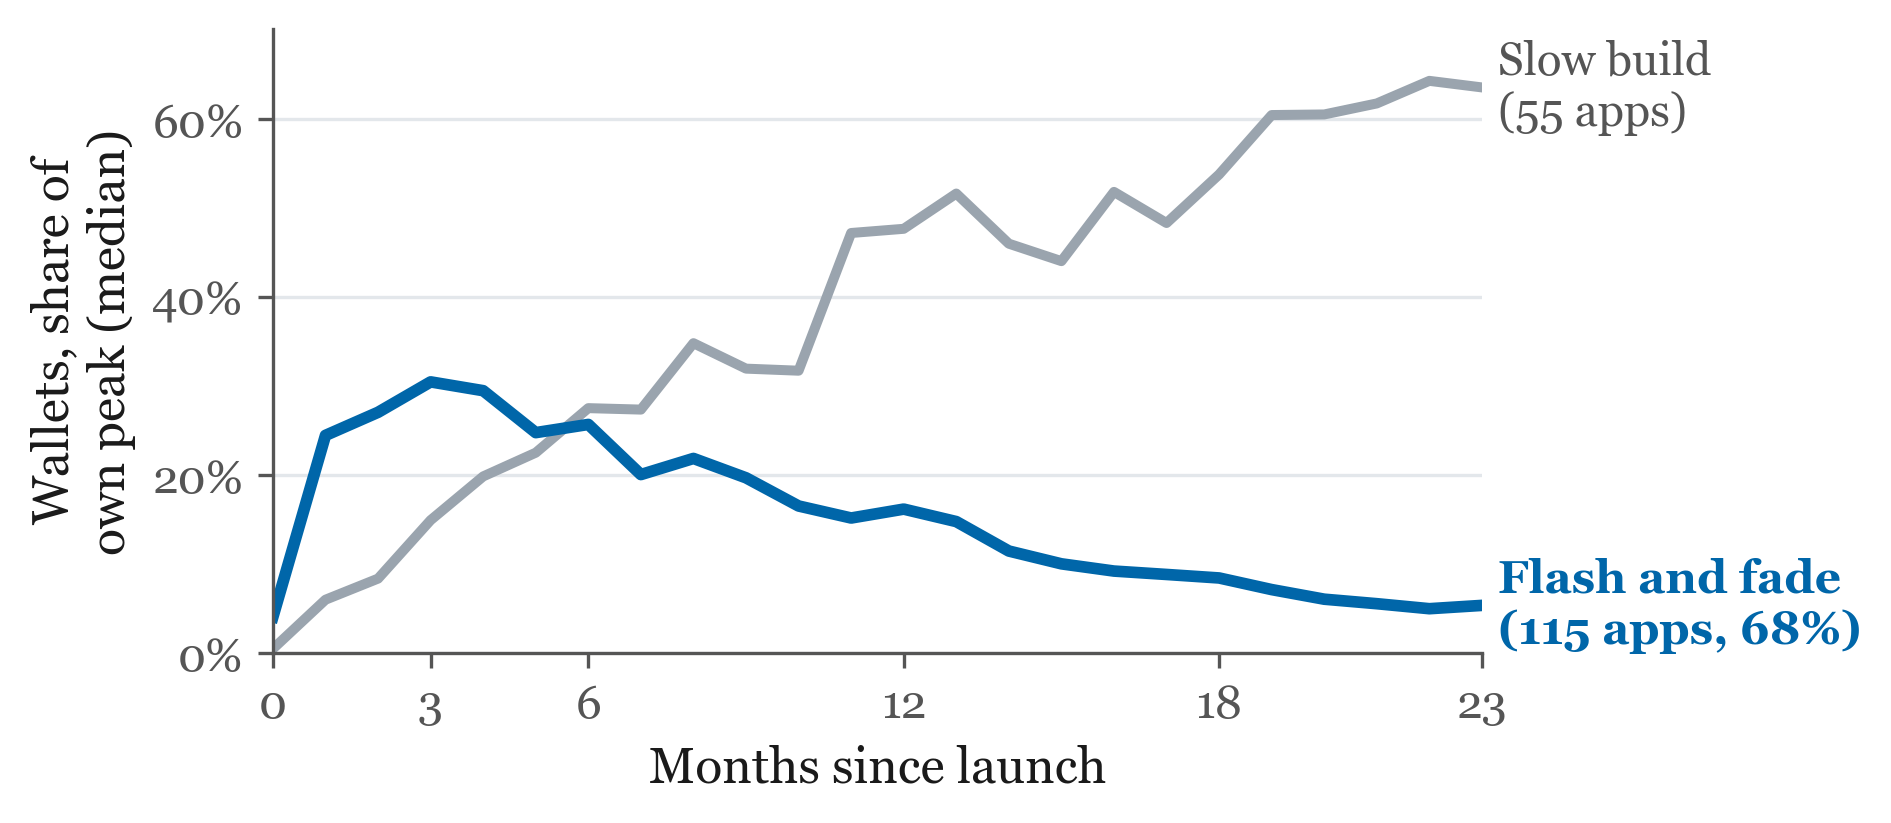
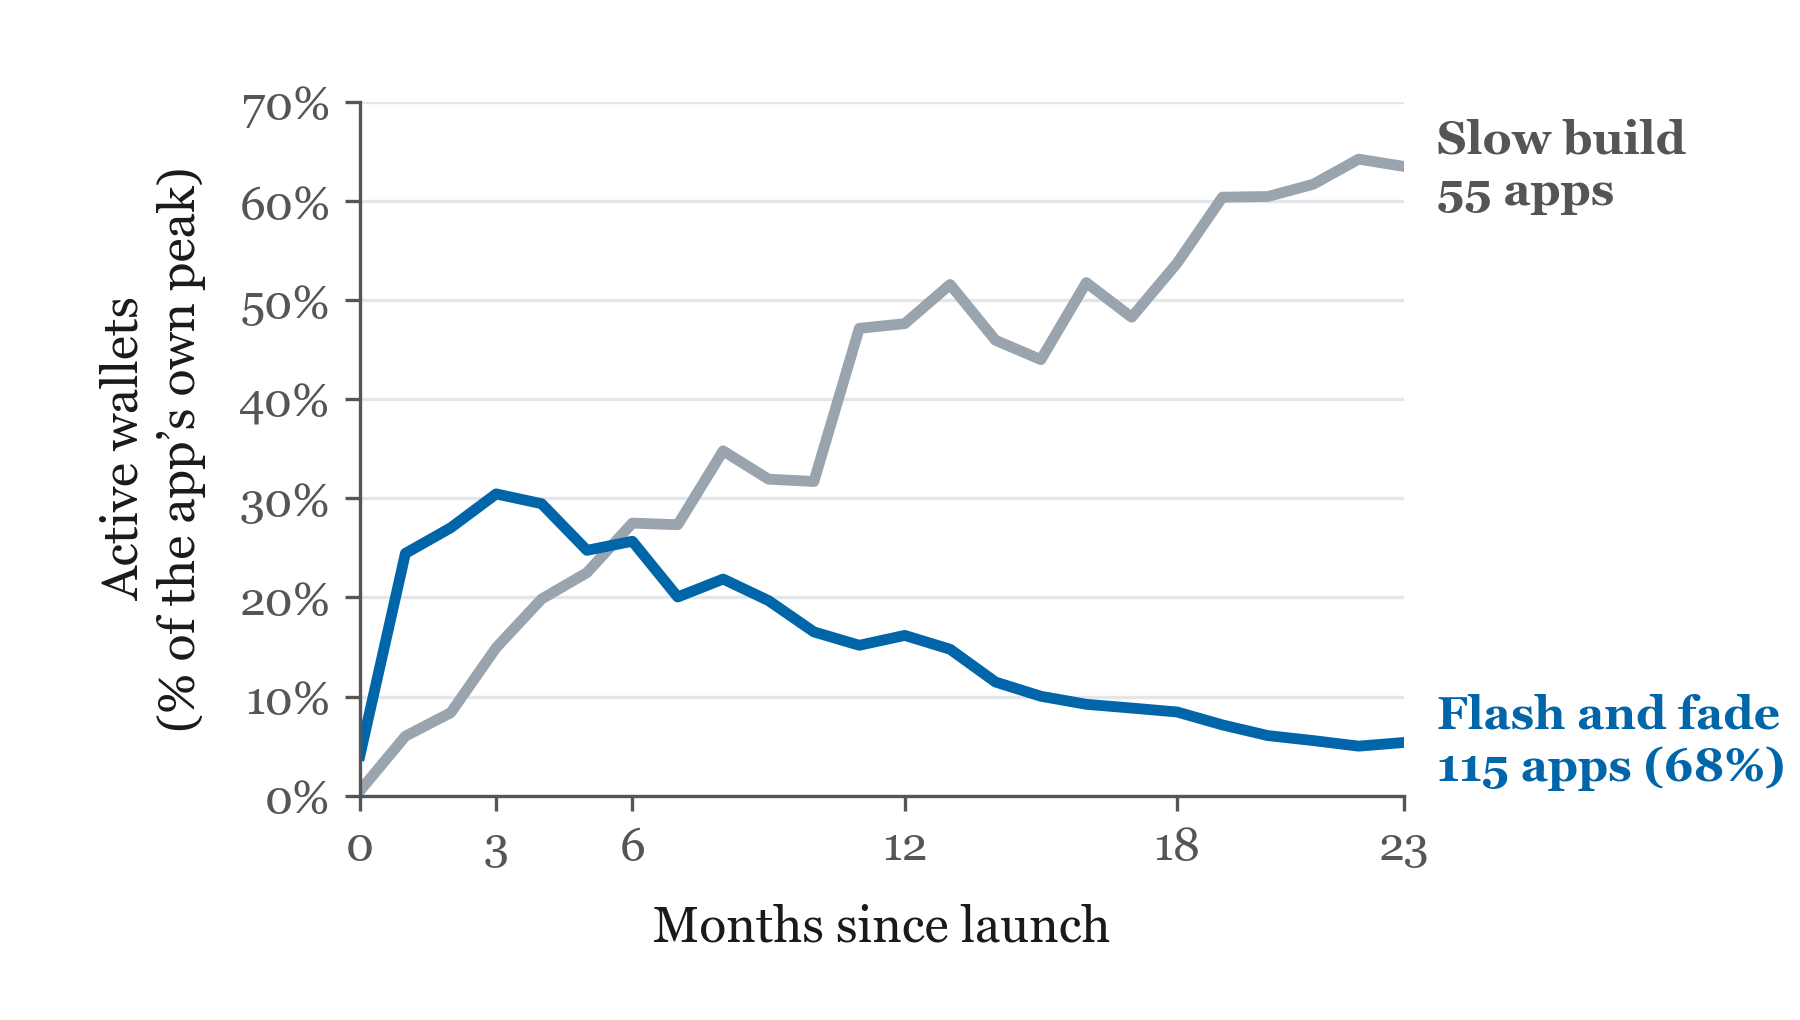
style: unify poster figure size, colours and axis titles

Changed region(s): [[0.0, 0.0304, 0.9956, 0.9721], [0.2178, 0.8505, 0.2489, 0.8809], [0.1244, 0.8505, 0.1556, 0.8809]]

diff --git a/poster/figures/make_figs.py b/poster/figures/make_figs.py
@@ -1,10 +1,17 @@
 """Poster figures: Q2, Q3, Q5, press before launch, and feature weights.
 
 Run from the repo root:  python3 poster/figures/make_figs.py
-Writes 300-dpi PNGs next to this script, sized for the poster's
-figure slots (about 5 x 2.6 in each).
+
+Every figure shares one style so they sit together on the poster:
+- same canvas: 6 x 3.4 in at 300 dpi (1800 x 1020 px), same plot margins
+- same colours: template blue for the series that carries the message,
+  grey for the comparison (its text labels use darker grey so they stay readable)
+- same type: Georgia; ticks 11 pt, axis titles 12 pt, data labels 11 pt bold
+- every chart has an x and a y title that names the measure and its unit
+- series are named on the right edge of the plot, never in a boxed legend
 """
 from pathlib import Path
+import sys
 
 import matplotlib.pyplot as plt
 import pandas as pd
@@ -12,18 +19,24 @@ import pandas as pd
 ROOT = Path(__file__).resolve().parents[2]
 OUT = Path(__file__).resolve().parent
 
+# ---- shared style -----------------------------------------------------------
 BLUE = "#0066A9"   # poster template blue: the series that carries the message
 GREY = "#9AA4AE"   # comparison series
 TEXT = "#1A1A1A"
 MUTED = "#555555"
 GRID = "#E3E7EB"
 
+FIGSIZE = (6.0, 3.4)
+MARGINS = dict(left=0.20, right=0.78, bottom=0.22, top=0.90)
+LABEL = dict(fontsize=11, fontweight="bold")
+
 plt.rcParams.update({
     "font.family": "Georgia",
-    "font.size": 12,
+    "font.size": 11,
     "axes.edgecolor": MUTED,
     "axes.labelcolor": TEXT,
     "axes.labelsize": 12,
+    "axes.labelpad": 8,
     "xtick.color": MUTED,
     "ytick.color": MUTED,
     "xtick.labelsize": 11,
@@ -35,18 +48,34 @@ plt.rcParams.update({
     "axes.axisbelow": True,
     "grid.color": GRID,
     "grid.linewidth": 0.8,
+    "lines.linewidth": 2.6,
     "savefig.dpi": 300,
-    "savefig.bbox": "tight",
     "savefig.facecolor": "white",
 })
-SIZE = (5.2, 2.7)
 
 
-def pct(ax):
-    ax.yaxis.set_major_formatter(plt.FuncFormatter(lambda v, _: f"{v:.0%}"))
+def new_fig():
+    fig, ax = plt.subplots(figsize=FIGSIZE)
+    fig.subplots_adjust(**MARGINS)
+    return fig, ax
 
 
-# ---------- Q2: wallets by month since launch, lasting vs. flash ----------
+def save(fig, name):
+    fig.savefig(OUT / name)   # fixed canvas, no tight crop, so every PNG is the same size
+    plt.close(fig)
+
+
+def pct_axis(axis):
+    axis.set_major_formatter(plt.FuncFormatter(lambda v, _: f"{v:.0%}"))
+
+
+def end_label(ax, x, y, text, color):
+    """Name a series just right of the plot area."""
+    ax.annotate(text, (x, y), xytext=(8, 0), textcoords="offset points",
+                va="center", ha="left", color=color, annotation_clip=False, **LABEL)
+
+
+# ---- Q2: wallets by month since launch, lasting vs. flash -------------------
 def q2():
     traj = pd.read_csv(ROOT / "eda/tables/03_trajectories_normalized.csv")
     clus = pd.read_csv(ROOT / "eda/tables/trajectory_clusters.csv")[["slug", "cluster_name"]]
@@ -55,80 +84,67 @@ def q2():
     d["group"] = d["cluster_name"].map(lambda c: "flash" if c == "flash_fade" else "slow")
     months = [f"m{i}" for i in range(24)]
     med = d.groupby("group")[months].median().T
+    med.index = range(24)
     n = d["group"].value_counts()
-    x = range(24)
 
-    fig, ax = plt.subplots(figsize=SIZE)
-    ax.plot(x, med["slow"], color=GREY, lw=2.4)
-    ax.plot(x, med["flash"], color=BLUE, lw=2.8)
-    ax.text(23.3, med["slow"].iloc[-1], f"Slow build\n({n['slow']} apps)", color=MUTED,
-            va="center", fontsize=11)
-    ax.text(23.3, med["flash"].iloc[-1], f"Flash and fade\n({n['flash']} apps, 68%)", color=BLUE,
-            va="center", fontsize=11, fontweight="bold")
+    fig, ax = new_fig()
+    ax.plot(med.index, med["slow"], color=GREY)
+    ax.plot(med.index, med["flash"], color=BLUE)
+    end_label(ax, 23, med["slow"].iloc[-1], f"Slow build\n{n['slow']} apps", MUTED)
+    end_label(ax, 23, med["flash"].iloc[-1], f"Flash and fade\n{n['flash']} apps (68%)", BLUE)
     ax.set_xlim(0, 23)
     ax.set_ylim(0, 0.7)
     ax.set_xticks([0, 3, 6, 12, 18, 23])
     ax.set_xlabel("Months since launch")
-    ax.set_ylabel("Wallets, share of\nown peak (median)")
-    pct(ax)
-    fig.savefig(OUT / "q2_wallets_since_launch.png")
-    plt.close(fig)
+    ax.set_ylabel("Active wallets\n(% of the app’s own peak)")
+    pct_axis(ax.yaxis)
+    save(fig, "q2_wallets_since_launch.png")
     return med
 
 
-# ---------- Q3: top-10 share of wallets over time ----------
+# ---- Q3: top-10 share of wallets over time ----------------------------------
 def q3():
     cm = pd.read_csv(ROOT / "dapp_data_v2/concentration_month.csv", parse_dates=["month"])
     e = cm[(cm.scope == "ecosystem") & (cm.metric == "active_wallets")].sort_values("month")
 
-    fig, ax = plt.subplots(figsize=SIZE)
+    fig, ax = new_fig()
     ax.axhspan(0.70, 0.80, color=BLUE, alpha=0.10, lw=0)
-    ax.plot(e["month"], e["top10_share"], color=BLUE, lw=2.6)
-    ax.text(e["month"].iloc[-1], 0.75, " 70–80%\n band", color=BLUE, va="center",
-            fontsize=11, fontweight="bold")
+    ax.plot(e["month"], e["top10_share"], color=BLUE)
+    end_label(ax, e["month"].iloc[-1], 0.75, "70–80%\nband", BLUE)
+    ax.set_xlim(e["month"].iloc[0], e["month"].iloc[-1])
     ax.set_ylim(0, 1)
-    ax.set_ylabel("Top-10 apps’ share\nof active wallets")
-    pct(ax)
-    fig.savefig(OUT / "q3_top10_share.png")
-    plt.close(fig)
+    ax.set_xlabel("Calendar month")
+    ax.set_ylabel("Active wallets in\nthe top 10 apps (%)")
+    pct_axis(ax.yaxis)
+    save(fig, "q3_top10_share.png")
     return e["top10_share"]
 
 
-# ---------- Q5: retention curve ----------
+# ---- Q5: retention curve ----------------------------------------------------
 def q5():
     r = pd.read_csv(ROOT / "dapp_data_v2/cohort_retention.csv")
     g = r.groupby("months_since")[["retained", "cohort_size"]].sum()
     rate = (g["retained"] / g["cohort_size"]).loc[1:24]
 
-    fig, ax = plt.subplots(figsize=SIZE)
-    ax.plot(rate.index, rate.values, color=BLUE, lw=2.8)
+    fig, ax = new_fig()
+    ax.plot(rate.index, rate.values, color=BLUE)
     for m in (1, 12):
         v = rate.loc[m]
         ax.scatter([m], [v], color=BLUE, s=36, zorder=3)
-        ax.annotate(f"{v:.0%} after {m} {'month' if m == 1 else 'months'}",
-                    (m, v), xytext=(10, 6), textcoords="offset points",
-                    color=BLUE, fontsize=11, fontweight="bold")
+        ax.annotate(f"{v:.0%} after {m} month{'s' if m > 1 else ''}", (m, v),
+                    xytext=(10, 6), textcoords="offset points", color=BLUE, **LABEL)
     ax.set_xlim(0, 24)
     ax.set_ylim(0, 0.2)
     ax.set_xticks([1, 3, 6, 12, 18, 24])
-    ax.set_xlabel("Months since first use")
-    ax.set_ylabel("Wallets that\ncome back")
-    pct(ax)
-    fig.savefig(OUT / "q5_retention_curve.png")
-    plt.close(fig)
+    ax.set_xlabel("Months since a wallet’s first use")
+    ax.set_ylabel("Wallets that come\nback (%)")
+    pct_axis(ax.yaxis)
+    save(fig, "q5_retention_curve.png")
     return rate
 
 
-def bar_labels(ax, bars, fmt="{:.0%}"):
-    for b in bars:
-        v = b.get_width()
-        ax.text(v + 0.008, b.get_y() + b.get_height() / 2, fmt.format(v),
-                va="center", ha="left", fontsize=12, fontweight="bold", color=TEXT)
-
-
-# ---------- Off-chain: success rate with vs. without press before launch ----------
+# ---- Off-chain: success rate with vs. without press before launch -----------
 def press():
-    import sys
     sys.path.insert(0, str(ROOT / "model"))
     from labels import build_labels  # team label code; v2 rule y_sustained_12
 
@@ -136,27 +152,29 @@ def press():
     news = pd.read_csv(ROOT / "model/news_sentiment/data/dapp_news_by_k.csv")
     d = news[news.k == 3].merge(lab, on="slug").dropna(subset=["y_sustained_12"])
     has = d["dapp_log_mentions_pre6m"] > 0
-    rows = [
-        (f"No press before launch\n({(~has).sum()} apps)", d.loc[~has, "y_sustained_12"].mean(), GREY),
-        (f"Press before launch\n({has.sum()} apps)", d.loc[has, "y_sustained_12"].mean(), BLUE),
+    rows = [  # bottom to top
+        (f"No\n{(~has).sum()} apps", d.loc[~has, "y_sustained_12"].mean(), GREY),
+        (f"Yes\n{has.sum()} apps", d.loc[has, "y_sustained_12"].mean(), BLUE),
     ]
 
-    fig, ax = plt.subplots(figsize=(5.2, 2.2))
+    fig, ax = new_fig()
     bars = ax.barh([r[0] for r in rows], [r[1] for r in rows],
                    color=[r[2] for r in rows], height=0.55)
-    bar_labels(ax, bars)
-    ax.set_xlim(0, 0.55)
-    ax.set_xlabel("Share of apps that last (v2 rule)")
+    for b, (_, v, c) in zip(bars, rows):
+        ax.text(v + 0.01, b.get_y() + b.get_height() / 2, f"{v:.0%}",
+                va="center", ha="left", color=BLUE if c == BLUE else MUTED, **LABEL)
+    ax.set_xlim(0, 0.5)
     ax.grid(axis="y", visible=False)
-    ax.grid(axis="x", color=GRID, linewidth=0.8)
+    ax.grid(axis="x", visible=True)
     ax.tick_params(axis="y", length=0)
-    ax.xaxis.set_major_formatter(plt.FuncFormatter(lambda v, _: f"{v:.0%}"))
-    fig.savefig(OUT / "press_before_launch.png")
-    plt.close(fig)
+    ax.set_xlabel("Apps that last (%, v2 success rule)")
+    ax.set_ylabel("Press coverage\nbefore launch")
+    pct_axis(ax.xaxis)
+    save(fig, "press_before_launch.png")
     return len(d), int(has.sum()), rows[1][1], rows[0][1]
 
 
-# ---------- Market shift: size and stickiness weight by period and by market ----------
+# ---- Market shift: size and stickiness weight by period and by market -------
 def weights():
     t = ROOT / "model/dapp_timesplit/results/tables"
     per = pd.read_csv(t / "coef_groups_by_period.csv")
@@ -168,7 +186,7 @@ def weights():
             ("After\nDencun", per, "period", "After Dencun"),
             ("Faster\nmarket", reg, "regime", "Faster growth"),
             ("Slower\nmarket", reg, "regime", "Slower growth")]
-    x = [0, 1, 2, 3.6, 4.6]   # gap between the two panels
+    x = [0, 1, 2, 3.5, 4.5]   # gap between the two groupings
     w = 0.36
     size_v, stick_v = [], []
     for _, df, key, val in cols:
@@ -176,9 +194,9 @@ def weights():
         size_v.append(g["Size"])
         stick_v.append(g["Stickiness"])
 
-    fig, ax = plt.subplots(figsize=(6.4, 2.8))
-    b1 = ax.bar([i - w / 2 for i in x], size_v, w, color=BLUE, label="Size")
-    b2 = ax.bar([i + w / 2 for i in x], stick_v, w, color=GREY, label="Stickiness")
+    fig, ax = new_fig()
+    b1 = ax.bar([i - w / 2 for i in x], size_v, w, color=BLUE)
+    b2 = ax.bar([i + w / 2 for i in x], stick_v, w, color=GREY)
     for bars, color in ((b1, BLUE), (b2, MUTED)):
         for b in bars:
             ax.text(b.get_x() + b.get_width() / 2, b.get_height() + 0.008,
@@ -186,15 +204,17 @@ def weights():
     ax.set_xticks(x)
     ax.set_xticklabels([c[0] for c in cols])
     ax.tick_params(axis="x", length=0)
-    ax.axvline(2.8, color=GRID, lw=1.2)
+    ax.axvline(2.75, color=GRID, lw=1.2)
     ax.text(1, 0.47, "By launch period", ha="center", fontsize=11, color=MUTED)
-    ax.text(4.1, 0.47, "By market growth at launch", ha="center", fontsize=11, color=MUTED)
+    ax.text(4.0, 0.47, "By market growth", ha="center", fontsize=11, color=MUTED)
+    ax.set_xlim(-0.6, 5.1)
     ax.set_ylim(0, 0.5)
-    ax.set_ylabel("Share of\nmodel weight")
-    pct(ax)
-    ax.legend(frameon=False, loc="lower left", bbox_to_anchor=(0, 1.0), ncol=2, fontsize=11)
-    fig.savefig(OUT / "size_stickiness_weights.png")
-    plt.close(fig)
+    end_label(ax, 5.1, stick_v[-1], "Stickiness", MUTED)
+    end_label(ax, 5.1, size_v[-1], "Size", BLUE)
+    ax.set_xlabel("Group of launches")
+    ax.set_ylabel("Share of model\nweight (%)")
+    pct_axis(ax.yaxis)
+    save(fig, "size_stickiness_weights.png")
     return dict(zip([c[0].replace("\n", " ") for c in cols], zip(size_v, stick_v)))
 
 
@@ -202,10 +222,13 @@ if __name__ == "__main__":
     med = q2()
     top = q3()
     rate = q5()
-    print("Press:", press())
-    print("Weights (size, stickiness):", {k: (round(a, 3), round(b, 3)) for k, (a, b) in weights().items()})
-    print("Q2 flash median: peak", med["flash"].max() , "at month", med["flash"].idxmax(),
-          "| month 23:", med["flash"].iloc[-1] )
-    print("Q3 top-10 share: min", top.min() , "max", top.max() ,
-          "| share of months in 70-80%:", ((top >= 0.70) & (top <= 0.80)).mean() )
-    print("Q5 retention: month 1", rate.loc[1] , "| month 12", rate.loc[12] )
+    n_apps, n_press, with_press, without = press()
+    wts = weights()
+    print(f"Q2 flash median: peak {med['flash'].max():.1%} at month {med['flash'].idxmax()}, "
+          f"month 23 {med['flash'].iloc[-1]:.1%}")
+    print(f"Q3 top-10 share: {top.min():.1%} to {top.max():.1%}; "
+          f"{((top >= 0.70) & (top <= 0.80)).mean():.0%} of months inside 70-80%")
+    print(f"Q5 retention: month 1 {rate.loc[1]:.1%}, month 12 {rate.loc[12]:.1%}")
+    print(f"Press: {n_press} of {n_apps} apps; {with_press:.1%} vs {without:.1%} last")
+    for k, (s, st) in wts.items():
+        print(f"Weights {k}: size {s:.0%}, stickiness {st:.0%}")
